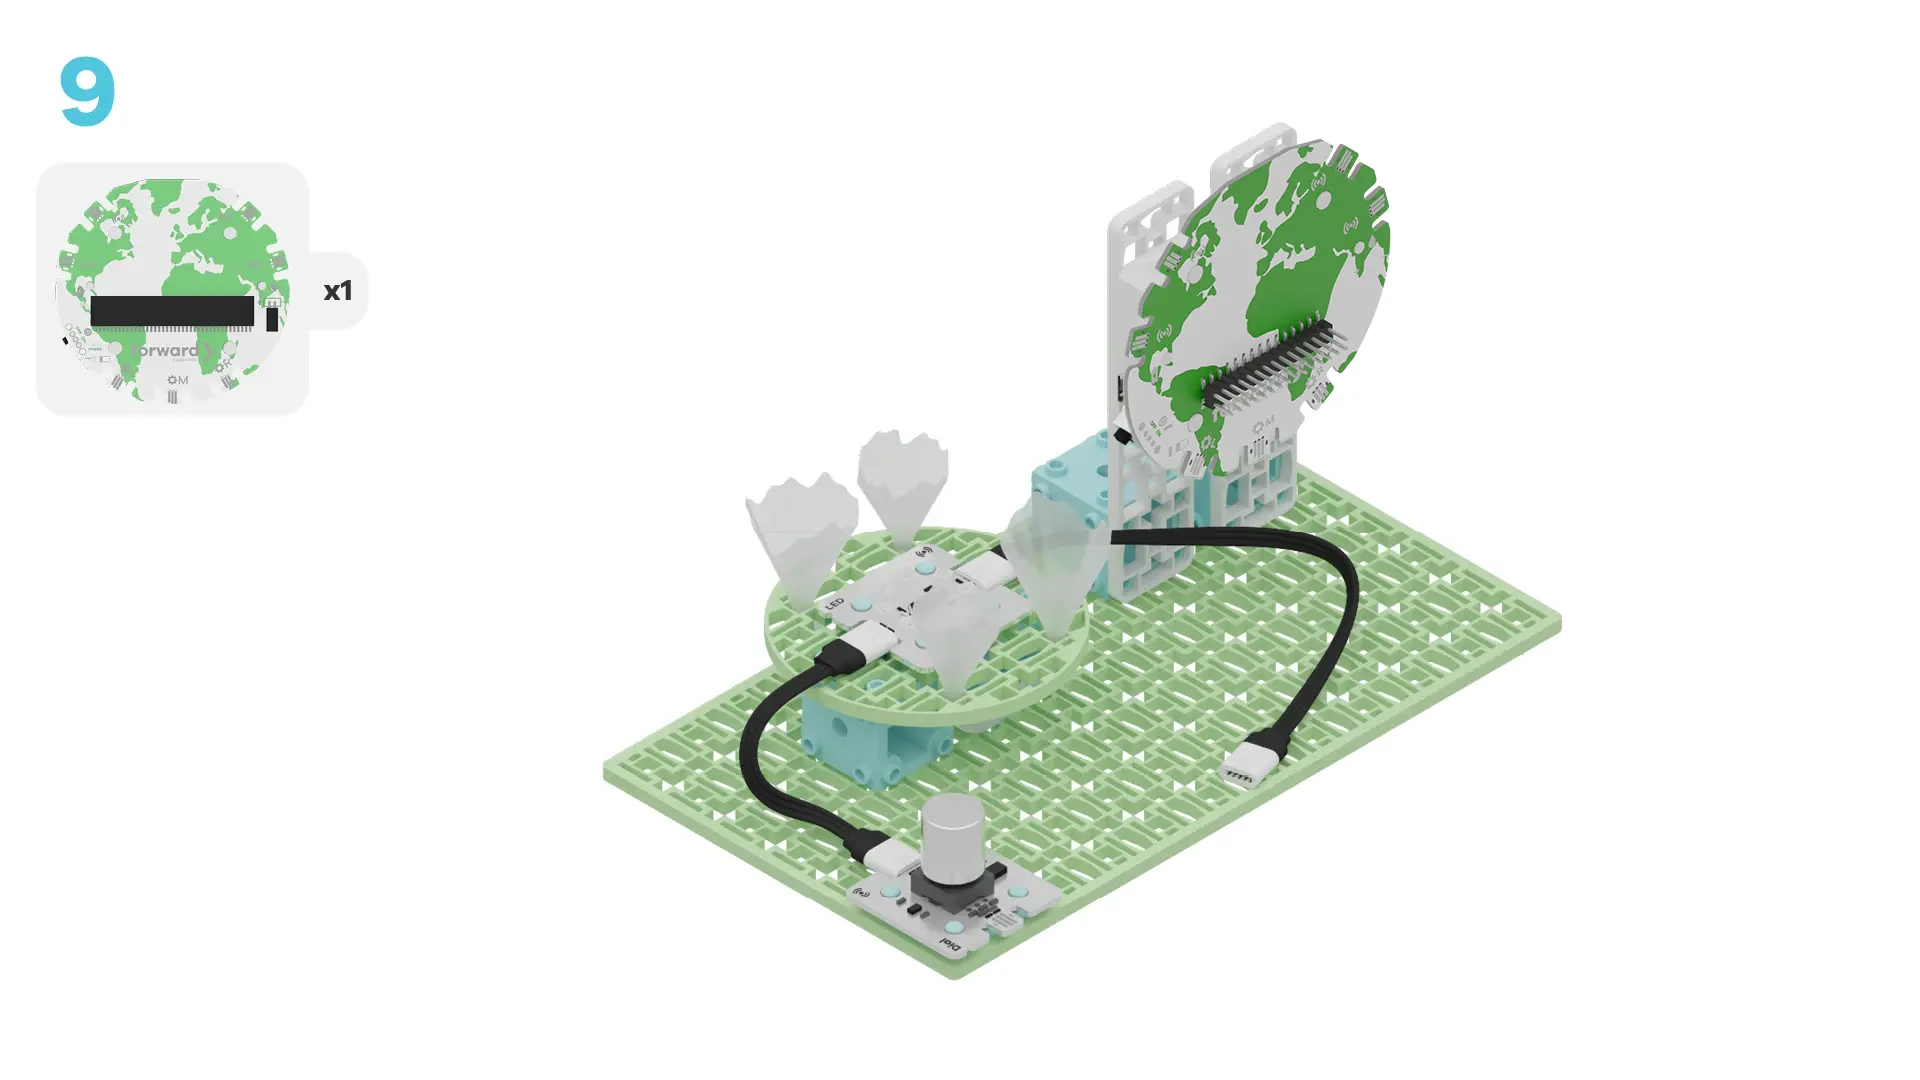
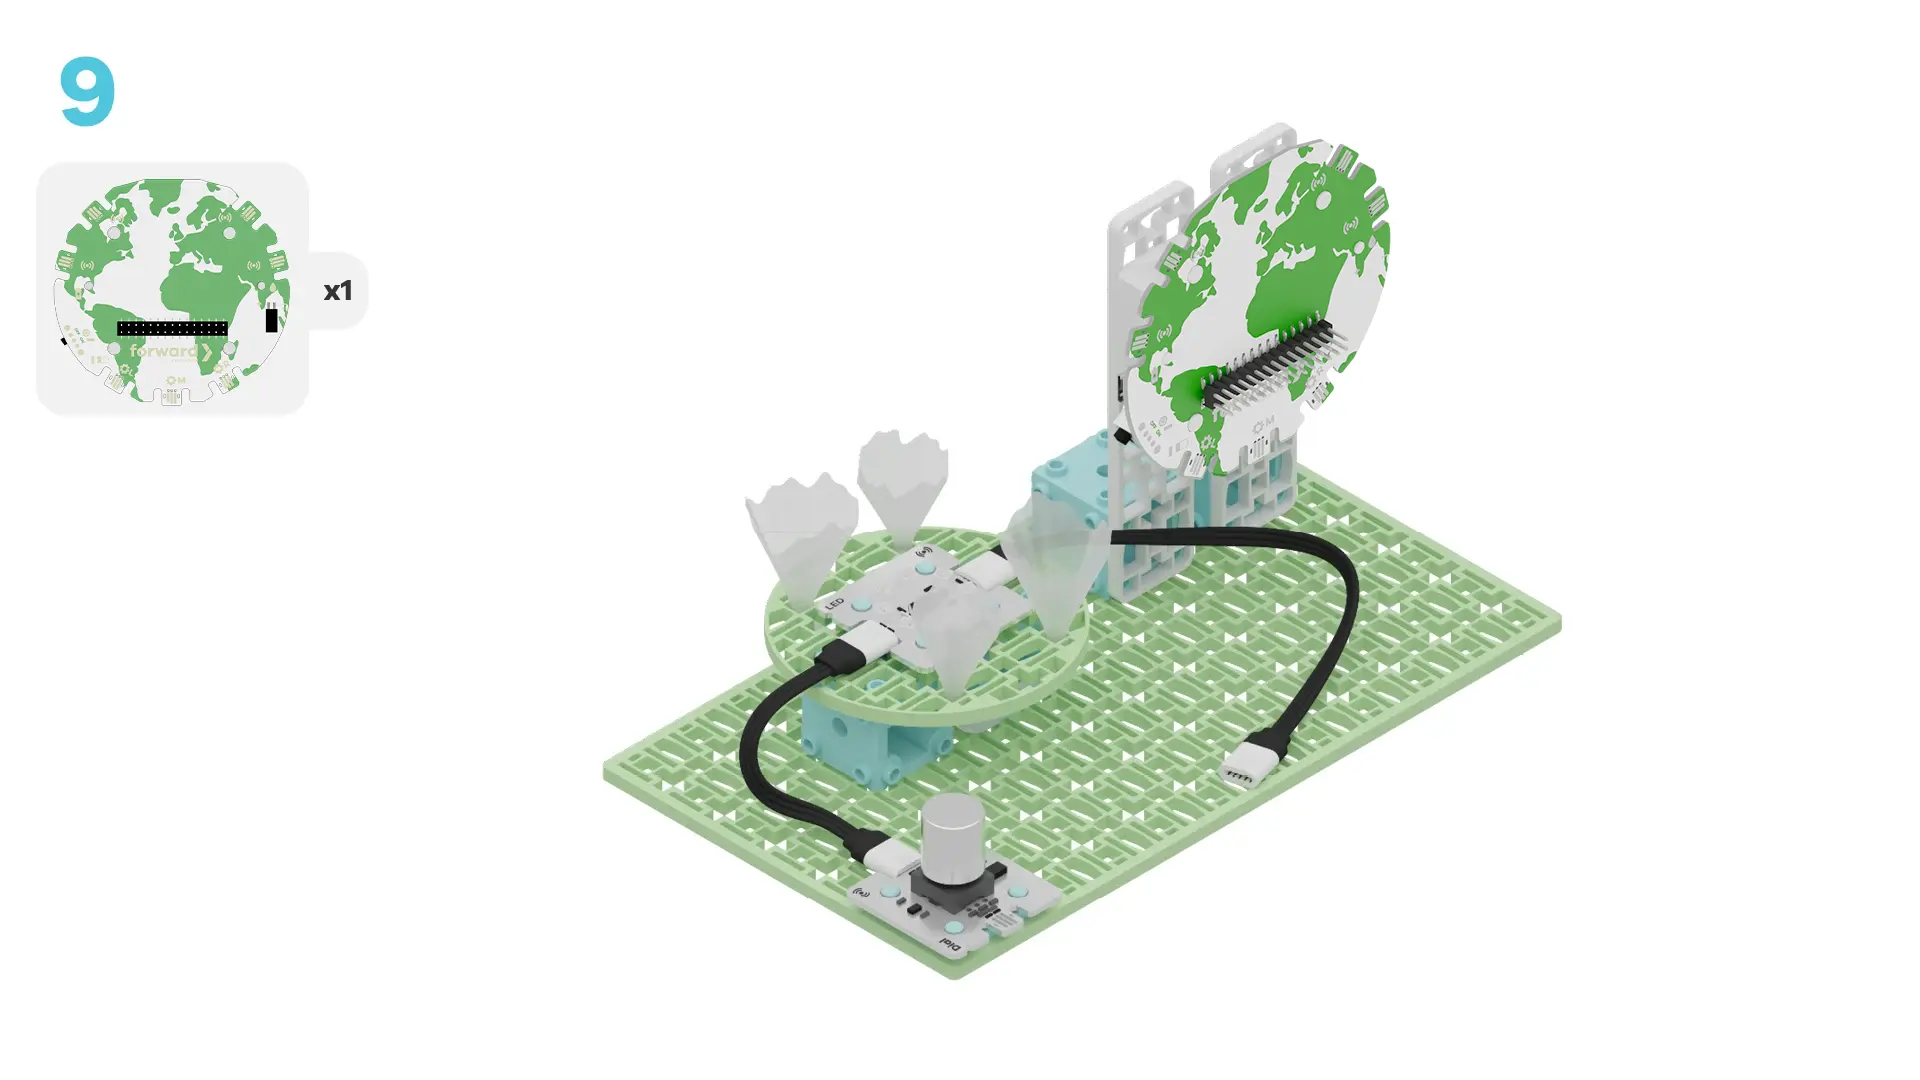
Update tutorials

Changed region(s): [[0.5938, 0.1222, 0.7188, 0.4278], [0.0312, 0.1528, 0.1562, 0.3667]]

diff --git a/curriculum/gr9-verticalfarm-use.md b/curriculum/gr9-verticalfarm-use.md
@@ -1,7 +1,7 @@
 # Optimierung des Pflanzenwachstums mit LED-Wachstumslampen
 
 ```package
-fwd-climate-action=github:calliope-edu/climate-action-kit#v1.1.0
+fwd-climate-action-kit=github:calliope-edu/climate-action-kit
 v3
 ```
 
@@ -9,7 +9,7 @@ v3
 Lasst uns einen Prototyp einer vertikalen Farm bauen! Wir werden dies in drei Teilen tun:
 
 1. **Bauen:** Den Prototypen konstruieren
-2. **Code erstellen:** Das Projekt zum Leben zu erwecken
+2. **Code erstellen:** Das Projekt zum Leben erwecken
 3. **Ausprobieren:** Herausfinden, ob der Prototyp unserer vertikalen Farm funktioniert
 
 <img src="https://raw.githubusercontent.com/calliope-edu/climate-action-kit/main/tutorial-assets/gr9-verticalfarm-thumbnail-render.webp" alt="Full vertical farm render" style="display: block; width: 60%; margin:auto;">
@@ -94,7 +94,7 @@ Lasst uns einen Prototyp einer vertikalen Farm bauen! Wir werden dies in drei Te
 
 ![verticalfarmsbs](https://raw.githubusercontent.com/calliope-edu/climate-action-kit/main/tutorial-assets/gr9-verticalfarm-sbs21.webp)
 
-## Aktivität 2: Code Your Project @showdialog
+## Aktivität 2: Programmieren @showdialog
 
 Wir müssen unser Modell mit dem Computer verbinden, damit es mit Code zum Leben erweckt werden kann!
 
@@ -150,11 +150,11 @@ input.onButtonPressed(Button.AB, function () {
     basic.pause(5000)
 })
 
-fwdBase.leftServo.setAngleAndWait(0)
+fwdMotors.setAngleAndWait(fwdBase.leftServo, 0)
 
 // @collapsed
-function lightPlant (location: number, colour: number) {
-    fwdMotors.setAngleAndWait(fwdBase.leftServo, location)
+function automatischeBelichtung (position: number, farbe: number) {
+    fwdMotors.setAngleAndWait(fwdBase.leftServo, position)
     basic.showLeds(`
         # . # . #
         . # # # .
@@ -162,7 +162,7 @@ function lightPlant (location: number, colour: number) {
         . # # # .
         # . # . #
         `)
-    fwdLights.ledRing1.setAllPixelsColor(colour)
+    fwdLights.ledRing1.setAllPixelsColor(farbe)
     basic.pause(5000)
     fwdLights.ledRing1.setAllPixelsColor(0x000000)
     basic.clearScreen()
@@ -172,7 +172,7 @@ function lightPlant (location: number, colour: number) {
 
 // @collapsed
 input.onLogoEvent(TouchButtonEvent.Pressed, function () {
-    lightPlant(10, 16711680)
+    automatischeBelichtung(10, 16711680)
 })
 ```
 
@@ -193,14 +193,14 @@ Befolge anschließend die Schritte zum Koppeln des Calliope mini.
 
 Klicke anschließend auf die Schaltfläche `|Download|`, um den Code vom Projekt herunterzuladen.
 
-## Aktivität 3: Use Your Project @showdialog
+## Aktivität 3: Programmieren @showdialog
 
 Wir sind bereit, unseren **Prototyp** einer vertikalen Farm einzusetzen!
 
-~hint 
 - **Verwende** die Anweisungen oben auf dem Bildschirm.
-- Wenn du weitere Informationen benötigst, klicke auf **„Mehr erfahren!“** ().
+- Wenn du weitere Informationen benötigst, klicke auf **„Mehr erfahren!“**.
 - Wenn du Hilfe beim Code benötigst, klicke auf die **Glühbirne**!
+<img src="https://raw.githubusercontent.com/calliope-edu/climate-action-kit/main/tutorial-assets/tellmore_hintbox_gif.webp" style="display: block; width: 80%; margin:auto;">
 
 ## Ausprobieren Schritt 1
 
@@ -211,7 +211,7 @@ Unsere vertikale Farm verfügt über:
 
 -   **Bausteine**: eine Grundplatte, zwei lange Rahmen, einen mittleren Rahmen, vier kleine Rahmen, einen Kreis, drei Würfelverbinder und drei Eckverbinder
 -   **Robotikkomponenten**: einen Calliope mini, eine Breakout-Platine, eine Batterie, einen Positionsservomotor und einen LED-Ring
--   Einen langen Kabelverbinder
+-   einen langen Kabelverbinder
     hint~
 
 ## Ausprobieren Schritt 2
@@ -229,7 +229,7 @@ Was ist deiner Meinung nach der Zweck der einzelnen Teile? Wie wirken sie mitein
 
 Beginnen wir damit, unsere vertikale Farm zu testen.
 
-Was passiert, wenn du A drückst? Drücke die Taste mehrmals und schreiben eine geordnete Liste mit allem auf, was dir auffällt.
+Was passiert, wenn du A drückst? Drücke die Taste mehrmals und schreibe eine geordnete Liste mit allem auf, was dir auffällt.
 
 _Hinweis: Warte zwischen jedem Tastendruck 5 Sekunden._
 
@@ -287,7 +287,7 @@ hint~
 ## Ausprobieren Schritt 6
 
 Vergleiche und kontrastiere diese Beleuchtungsarten. Was ist unterschiedlich? Was ist gleich?
-An dieser Stelle kannst du dir den Code unter den `||input:on button A pressed||`, `||input:on button B pressed||`, und `||input:on button A+B pressed||` Blöcken auf der Bühne anschauen, wenn es hilft!
+An dieser Stelle kannst du dir den Code unter den `||input:wenn Knopf A geklickt||`, `||input:wenn Knopf B geklickt||`, und `||input:wenn Knopf A+B geklickt||` Blöcken auf der Bühne anschauen, wenn es hilft!
 
 ~hint Mehr erfahren!
 Die Beleuchtung für jede Pflanze ist nahezu identisch. Die einzigen Unterschiede sind:
@@ -302,8 +302,8 @@ Es ist nicht sehr effizient, dieselben Anweisungen mehrmals zu schreiben! Außer
 
 Wie könntest du eine einzige Abfolge von Schritten schreiben, die zur Behandlung aller Pflanzen verwendet werden könnte? Wie würdest du diesen Prozess nennen? Probiere es jetzt aus!
 
-~Hinweis Mehr erfahren!
-Nennen wir diesen Prozess: Pflanzenlichtbehandlung.
+~hint Mehr erfahren!
+Nennen wir diesen Prozess: automatische Belichtung.
 
 Wir könnten Platzhalter für Werte verwenden, die sich je nach Pflanzenart oder Lebensphase ändern können! Zum Beispiel, um eine Pflanze zu beleuchten:
 
@@ -327,8 +327,8 @@ Wir haben eine Funktion für dich vorab geschrieben. Klicke auf den Pfeil neben 
     hint~
 
 ```blocks
-function lightPlant (location: number, colour: number) {
-    fwdMotors.setAngleAndWait(fwdBase.leftServo, location)
+function automatischeBelichtung (position: number, farbe: number) {
+    fwdMotors.setAngleAndWait(fwdBase.leftServo, position)
     basic.showLeds(`
         # . # . #
         . # # # .
@@ -336,7 +336,7 @@ function lightPlant (location: number, colour: number) {
         . # # # .
         # . # . #
         `)
-    fwdLights.ledRing1.setAllPixelsColor(colour)
+    fwdLights.ledRing1.setAllPixelsColor(farbe)
     basic.pause(5000)
     fwdLights.ledRing1.setAllPixelsColor(0x000000)
     basic.clearScreen()
@@ -348,18 +348,20 @@ function lightPlant (location: number, colour: number) {
 ## Ausprobieren Schritt 9
 
 Wenn du eine Funktion in deinem Code verwenden möchten, musst du sie aufrufen.
+
 ~hint Mehr erfahren!
 
--   Du findest die `||functions:call lightPlant||` Block unter dem `||functions:Functions||` Kategorie.
+-   Du findest den `||functions:Aufruf automatischeBelichtung||` Block unter der `||functions:Funktionen||` Kategorie.
     hint~
 
 ## Ausprobieren Schritt 10
 
-Wir haben bereits ein`||functions:call lightPlant||` Block zu unserem Code unter dem `||input:on logo touched||` Ereignis. Erweitere diesen Code, indem du auf den Abwärtspfeil klickst.
+Wir haben bereits einen `||functions:Aufruf automatischeBelichtung||` Block im Code unter dem `||input:wenn Logo gedrückt||` Ereignis. Erweitere diesen Code, indem du auf den Abwärtspfeil klickst.
 
 Drücke erneut auf A und berühre dann das Logo auf der Vorderseite des Calliope mini. Was fällt dir auf?
 
 _Hinweis: Warte zwischen dem Drücken der Taste und dem Berühren des Logos 5 Sekunden._
+
 ~hint Mehr erfahren!
 
 -   Hoffentlich ist dir aufgefallen, dass die Beleuchtung genauso ist wie zuvor!
@@ -367,7 +369,7 @@ _Hinweis: Warte zwischen dem Drücken der Taste und dem Berühren des Logos 5 Se
 
 ```blocks
 // @hide
-function lightPlant (location: number, colour: number) {
+function automatischeBelichtung (location: number, colour: number) {
     fwdMotors.setAngleAndWait(fwdBase.leftServo, location)
     basic.showLeds(`
         # . # . #
@@ -411,4 +413,4 @@ Was ist eine Sache, über die du mehr erfahren möchtest?
 
 Du kannst auf die Schaltfläche `|Done|` klicken, um das Tutorial zu beenden.
 
-Besuch auch mal calliope.cc, um weitere inspirierende Ideen und Projekte zu entdecken!
+Auf der Internetseite **calliope.cc** findest du weitere inspirierende Ideen und Projekte!

diff --git a/curriculum/es-coralreef-use.md b/curriculum/es-coralreef-use.md
@@ -8,17 +8,17 @@ v3
 
 ```template
 fwdButtons.dial1.onRotated(fwdEnums.ClockwiseCounterclockwise.Counterclockwise, function () {
-    temperature += -1
+    temperatur += -1
 })
 fwdButtons.dial1.onRotated(fwdEnums.ClockwiseCounterclockwise.Clockwise, function () {
-    temperature += 1
+    temperatur += 1
 })
-let temperature = 28
+let temperatur = 28
 basic.forever(function () {
-    basic.showNumber(temperature)
+    basic.showNumber(temperatur)
 })
 basic.forever(function () {
-    if (temperature > 30) {
+    if (temperatur > 30) {
         fwdLights.ledRing1.setAllPixelsColor(0xffffff)
     } else {
         fwdLights.ledRing1.setAllPixelsColor(0xff0080)
@@ -32,7 +32,7 @@ basic.forever(function () {
 Lasst uns unser Korallenriff-Modell bauen! Wir werden dies in drei Schritten tun:
 
 1. **Bauen:** Den Prototypen konstruieren
-2. **Code erstellen:** Das Projekt zum Leben zu erwecken
+2. **Code erstellen:** Das Projekt zum Leben erwecken
 3. **Ausprobieren:** Herausfinden, ob der fertige Prototyp funktioniert
 
 <img src="https://raw.githubusercontent.com/calliope-edu/climate-action-kit/main/tutorial-assets/es-coralreef-render.webp" alt="Full coral reef model render" style="display: block; width: 70%; margin:auto;">
@@ -122,6 +122,7 @@ Wir sind nun bereit, unser Korallenriffmodell **auszuprobieren**, um zu sehen, w
 ## Ausprobieren Schritt 1
 
 Schau dir das Modell, das du gerade gebaut hast, genau an. Kannst du die verschiedenen Teile benennen, die du dafür verwendet hast? Sei dabei möglichst genau!
+
 ~hint Mehr erfahren!
 Dieses Modell verwendet:
 
@@ -133,6 +134,7 @@ Dieses Modell verwendet:
 ## Ausprobieren Schritt 2
 
 Was glaubst du, was die verschiedenen Teile des Modells darstellen?
+
 ~hint Mehr erfahren!
 
 -   Der LED-Ring stellt die Koralle dar. Seine Farbe zeigt an, ob die Koralle gesund oder gebleicht ist. Wir verwenden Seidenpapier, damit der LED-Ring noch mehr wie eine Koralle aussieht. Es stellt die Tentakel des Korallenpolypen dar!
@@ -142,6 +144,7 @@ Was glaubst du, was die verschiedenen Teile des Modells darstellen?
 
 Es ist an der Zeit, das Modell zu testen, indem du den Drehknopf langsam um eine Stufe nach rechts drehst.
 Was fällt dir auf?
+
 ~hint Mehr erfahren!
 
 - Die Zahl auf dem LED-Bildschirm des Calliope mini hat sich um 1 erhöht.
@@ -153,6 +156,7 @@ Was fällt dir auf?
 Wir verwenden eine **Variable**, um die Temperatur zu speichern. Variablen sind wie Kisten, die Informationen für uns aufbewahren.
 
 Jedes Mal, wenn du den Drehknopf drehst, ändert sich die Temperaturvariable entsprechend der Drehrichtung. Versuche, den Drehknopf um eine Stufe nach links zu drehen. Was passiert?
+
 ~hint Mehr erfahren!
 So funktioniert es:
 - Die Variable enthält die aktuelle Temperatur. In diesem Programm beginnt die Temperatur bei 28 °C.
@@ -161,18 +165,18 @@ So funktioniert es:
 hint~
 
 ```block
-let temperature = 28
+let temperatur = 28
 
 fwdButtons.dial1.onRotated(fwdEnums.ClockwiseCounterclockwise.Clockwise, function () {
-    temperature += 1
+    temperatur += 1
 })
 
 fwdButtons.dial1.onRotated(fwdEnums.ClockwiseCounterclockwise.Counterclockwise, function () {
-    temperature += -1
+    temperatur += -1
 })
 
 basic.forever(function () {
-    basic.showNumber(temperature)
+    basic.showNumber(temperatur)
 })
 ```
 
@@ -181,6 +185,7 @@ basic.forever(function () {
 Drehe den Regler weiter, bis die Temperatur über 30 °C liegt.
 
 Was fällt dir auf?
+
 ~hint Mehr erfahren!
 
 -   Wenn die Temperatur über 30 °C liegt, leuchten die LEDs auf dem LED-Ring weiß.
@@ -196,6 +201,7 @@ Eine Bedingung ist eine Regel, die dem Calliope mini mitteilt, was zu tun ist, w
 ## Ausprobieren Schritt 8
 
 Kannst du die Bedingung im folgenden Code finden?
+
 ~hint Mehr erfahren!
 
 - Bei Temperaturen über 30 °C bleicht die Koralle aus (die LED leuchtet weiß).
@@ -203,7 +209,7 @@ Kannst du die Bedingung im folgenden Code finden?
     hint~
 
 ```block
-    if (temperature > 30) {
+    if (temperatur > 30) {
         fwdLights.ledRing1.setAllPixelsColor(0xffffff)
     } else {
         fwdLights.ledRing1.setAllPixelsColor(0xff0080)
@@ -213,6 +219,7 @@ Kannst du die Bedingung im folgenden Code finden?
 ## Ausprobieren Schritt 9
 
 Inwiefern ist dies ein gutes Modell für die Korallenbleiche im wirklichen Leben?
+
 ~hint Mehr erfahren!
 
 Stärken:
@@ -227,7 +234,7 @@ Stärken:
 
 Was sind einige Einschränkungen dieses Modells? Zeigt es wirklich alles, was in einem echten Korallenriff passiert?
 
-~Hinweis Erzähl mir mehr!
+~hint Erzähl mir mehr!
 
 - In diesem Modell tritt die Bleiche plötzlich auf. In Wirklichkeit verläuft die Korallenbleiche langsam über einen längeren Zeitraum, wenn die Wassertemperatur steigt.
 - Das Modell zeigt nur Temperaturänderungen, aber in der Realität können auch Faktoren wie Umweltverschmutzung oder zu viel Sonnenlicht zur Korallenbleiche führen.
@@ -252,4 +259,4 @@ Was ist eine Sache, über die du mehr erfahren möchtest?
 
 Du kannst auf die Schaltfläche `|Done|` klicken, um das Tutorial zu beenden.
 
-Besuch auch mal calliope.cc, um weitere inspirierende Ideen und Projekte zu entdecken!
+Auf der Internetseite **calliope.cc** findest du weitere inspirierende Ideen und Projekte!

diff --git a/curriculum/ms-windsample-tutorial.md b/curriculum/ms-windsample-tutorial.md
@@ -221,4 +221,4 @@ Nenne eine Sache, die du heute gelernt hast?
 
 Du kannst auf die Schaltfläche `|Done|` klicken, um das Tutorial zu beenden.
 
-Auf der Internetseite **calliope.cc**, findest du weitere inspirierende Ideen und Projekte!
+Auf der Internetseite **calliope.cc** findest du weitere inspirierende Ideen und Projekte!
